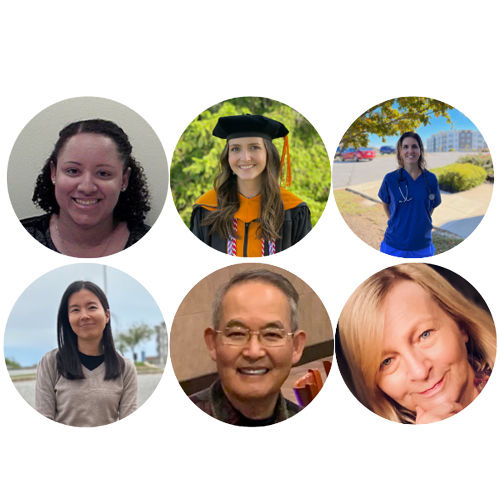
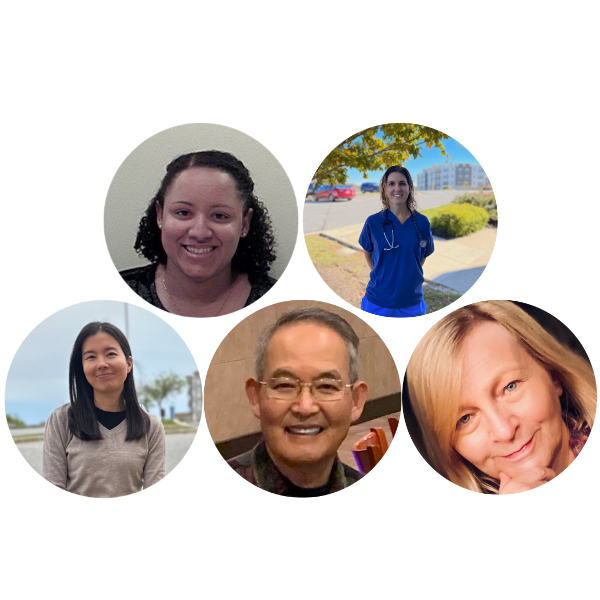
removed employee from staff page
updated staff image on home page with the old employee removed

diff --git a/staff.html b/staff.html
@@ -244,7 +244,7 @@
         </div>
       </div>
       <!-- Dr Johnson -->
-      <div class="providers providers__container page-container gradient-gray">
+      <!-- <div class="providers providers__container page-container gradient-gray">
         <div class="providers__img-wrapper">
           <img
             src="./assets/images/johnson-headshot-round.png"
@@ -272,7 +272,7 @@
           </p>
           <p>Languages spoken: English</p>
         </div>
-      </div>
+      </div> -->
     </section>
     <!-- End Main Content -->
     <!-- Footer Template -->
